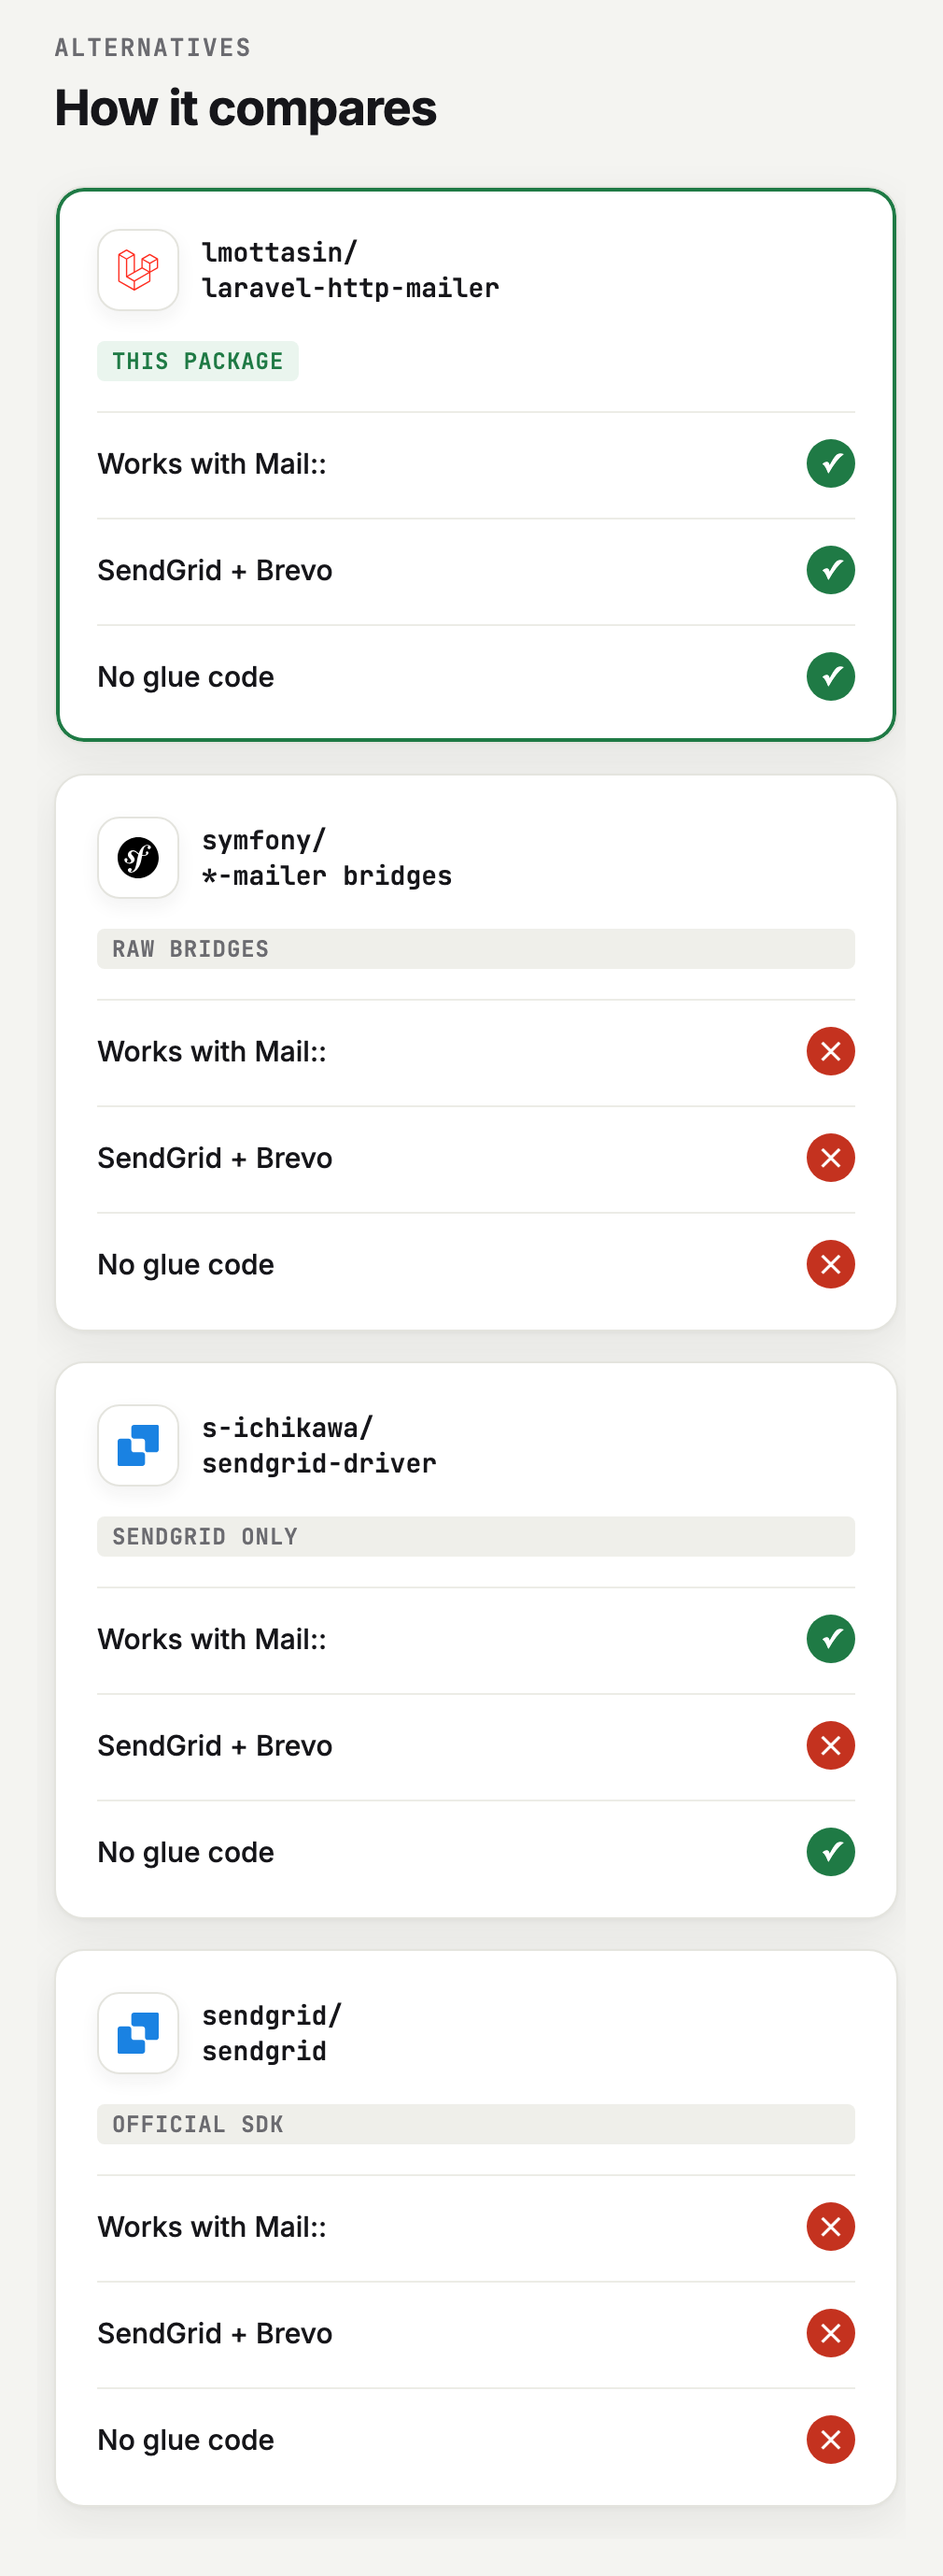
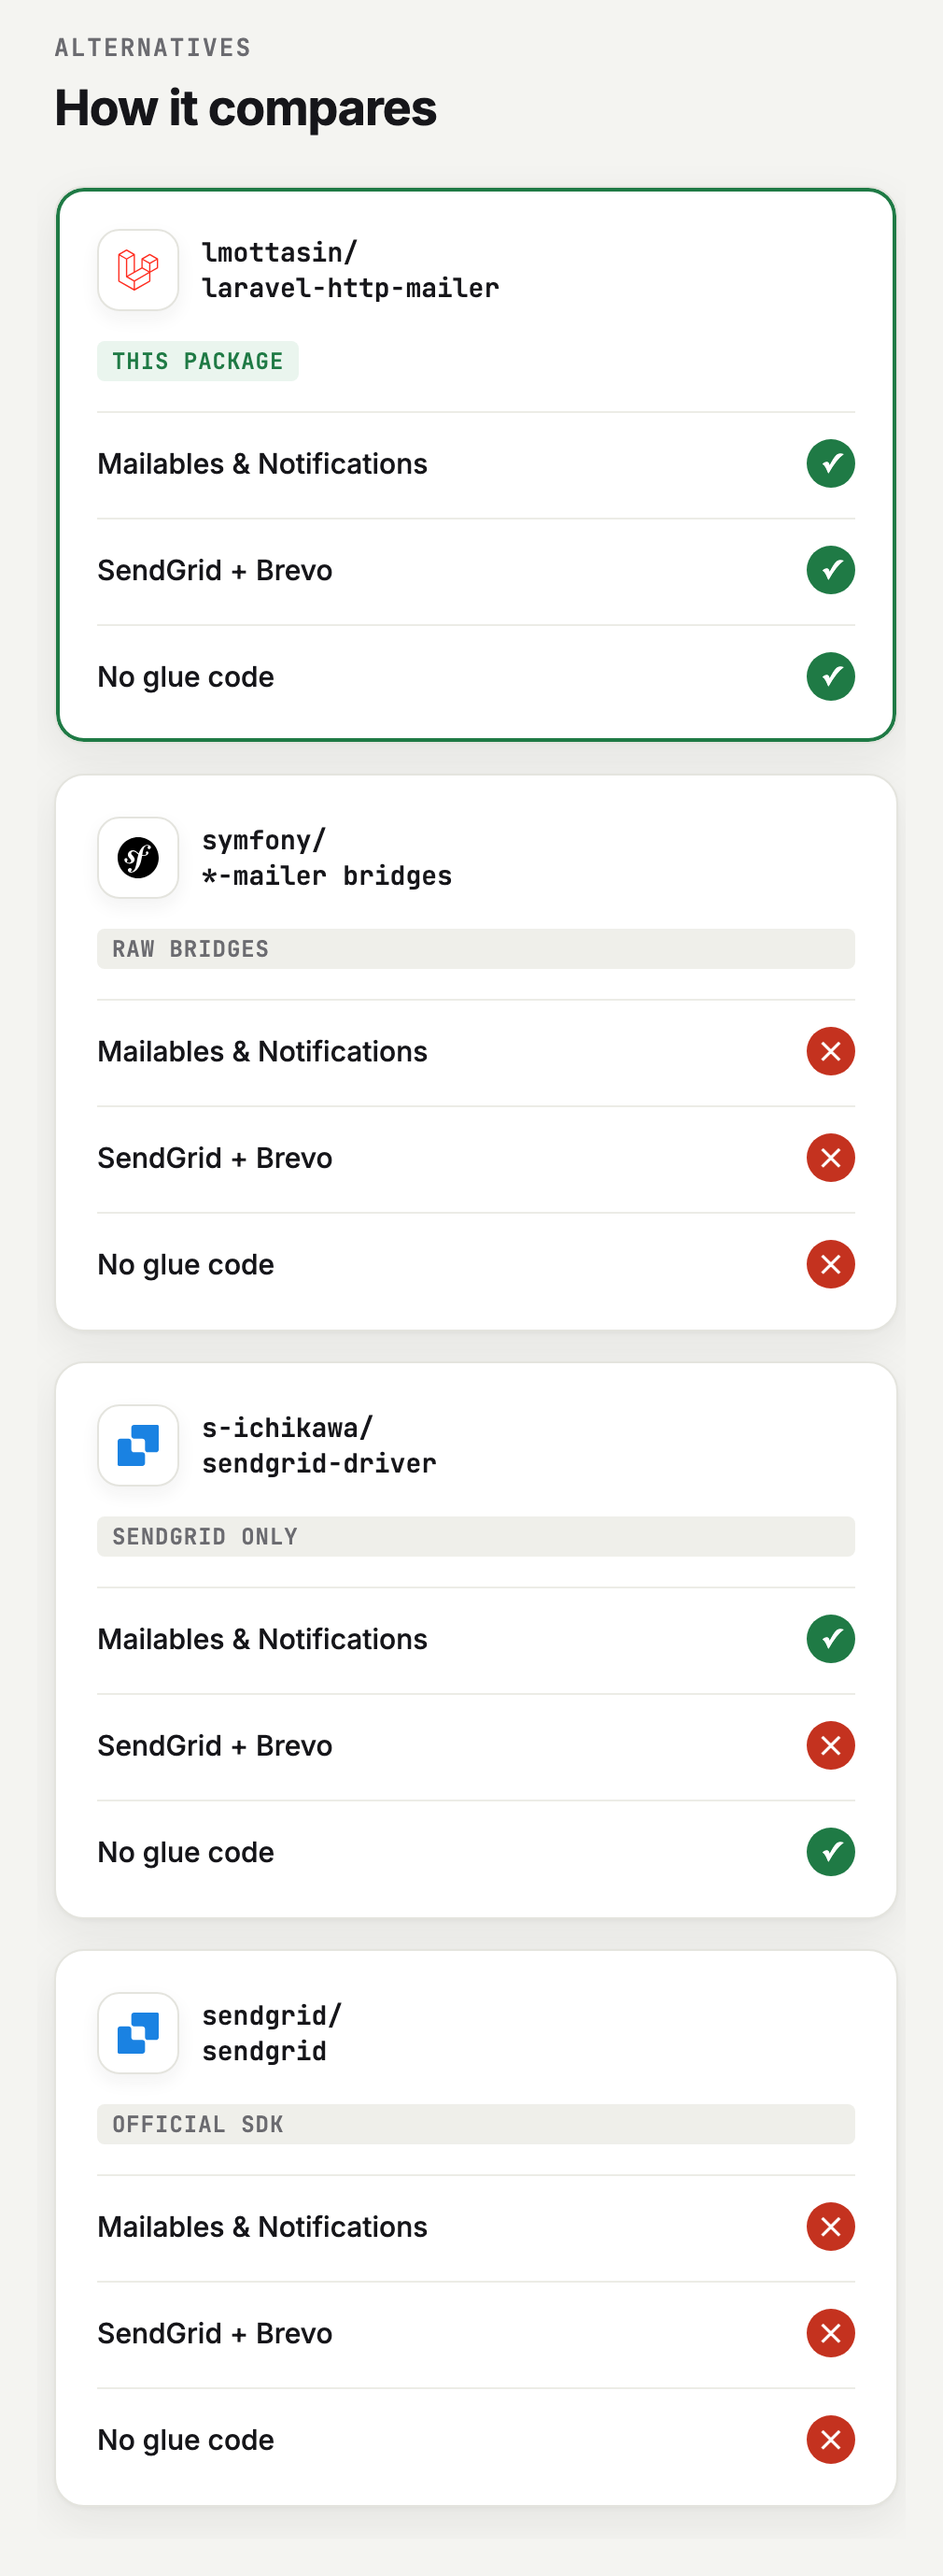
Docs: mention Mailables and Notifications in hero and comparison images

diff --git a/art/src/compare.html b/art/src/compare.html
@@ -28,7 +28,7 @@
     <div class="card pkg me">
       <div class="top"><div class="ic">{{icon:laravel:ff2d20:22}}</div><div class="name">lmottasin/<br>laravel-http-mailer</div></div>
       <span class="tag ok">THIS PACKAGE</span>
-      <div class="row">Works with Mail::<span class="yes">✓</span></div>
+      <div class="row">Mailables &amp; Notifications<span class="yes">✓</span></div>
       <div class="row">SendGrid + Brevo<span class="yes">✓</span></div>
       <div class="row">No glue code<span class="yes">✓</span></div>
     </div>
@@ -36,7 +36,7 @@
     <div class="card pkg">
       <div class="top"><div class="ic">{{icon:symfony:000000:22}}</div><div class="name">symfony/<br>*-mailer bridges</div></div>
       <span class="tag" style="background:#efefea;color:var(--muted)">RAW BRIDGES</span>
-      <div class="row">Works with Mail::<span class="no">✕</span></div>
+      <div class="row">Mailables &amp; Notifications<span class="no">✕</span></div>
       <div class="row">SendGrid + Brevo<span class="no">✕</span></div>
       <div class="row">No glue code<span class="no">✕</span></div>
     </div>
@@ -44,7 +44,7 @@
     <div class="card pkg">
       <div class="top"><div class="ic">{{icon:sendgrid:1a82e2:22}}</div><div class="name">s-ichikawa/<br>sendgrid-driver</div></div>
       <span class="tag" style="background:#efefea;color:var(--muted)">SENDGRID ONLY</span>
-      <div class="row">Works with Mail::<span class="yes">✓</span></div>
+      <div class="row">Mailables &amp; Notifications<span class="yes">✓</span></div>
       <div class="row">SendGrid + Brevo<span class="no">✕</span></div>
       <div class="row">No glue code<span class="yes">✓</span></div>
     </div>
@@ -52,7 +52,7 @@
     <div class="card pkg">
       <div class="top"><div class="ic">{{icon:sendgrid:1a82e2:22}}</div><div class="name">sendgrid/<br>sendgrid</div></div>
       <span class="tag" style="background:#efefea;color:var(--muted)">OFFICIAL SDK</span>
-      <div class="row">Works with Mail::<span class="no">✕</span></div>
+      <div class="row">Mailables &amp; Notifications<span class="no">✕</span></div>
       <div class="row">SendGrid + Brevo<span class="no">✕</span></div>
       <div class="row">No glue code<span class="no">✕</span></div>
     </div>

diff --git a/art/src/hero.html b/art/src/hero.html
@@ -208,7 +208,7 @@
 
   <div class="foot">
     <div class="pill"><span>$</span> composer require lmottasin/laravel-http-mailer</div>
-    <div class="nochange"><i>✓</i> No changes to your email code</div>
+    <div class="nochange"><i>✓</i> Mailables &amp; Notifications: no changes</div>
   </div>
 </body>
 </html>

diff --git a/README.md b/README.md
@@ -44,7 +44,7 @@ Everything you already send keeps working. Only `.env` changes.
 <details>
 <summary>Same comparison as text</summary>
 
-| Package | Works with `Mail::` | SendGrid + Brevo | No glue code |
+| Package | Mailables & Notifications | SendGrid + Brevo | No glue code |
 |---|:-:|:-:|:-:|
 | **lmottasin/laravel-http-mailer** | <img src="https://raw.githubusercontent.com/lmottasin/laravel-http-mailer/main/art/ui/check.svg" width="16" height="16" alt="Yes"> | <img src="https://raw.githubusercontent.com/lmottasin/laravel-http-mailer/main/art/ui/check.svg" width="16" height="16" alt="Yes"> | <img src="https://raw.githubusercontent.com/lmottasin/laravel-http-mailer/main/art/ui/check.svg" width="16" height="16" alt="Yes"> |
 | `symfony/*-mailer` bridges | <img src="https://raw.githubusercontent.com/lmottasin/laravel-http-mailer/main/art/ui/cross.svg" width="16" height="16" alt="No"> | <img src="https://raw.githubusercontent.com/lmottasin/laravel-http-mailer/main/art/ui/cross.svg" width="16" height="16" alt="No"> | <img src="https://raw.githubusercontent.com/lmottasin/laravel-http-mailer/main/art/ui/cross.svg" width="16" height="16" alt="No"> |
